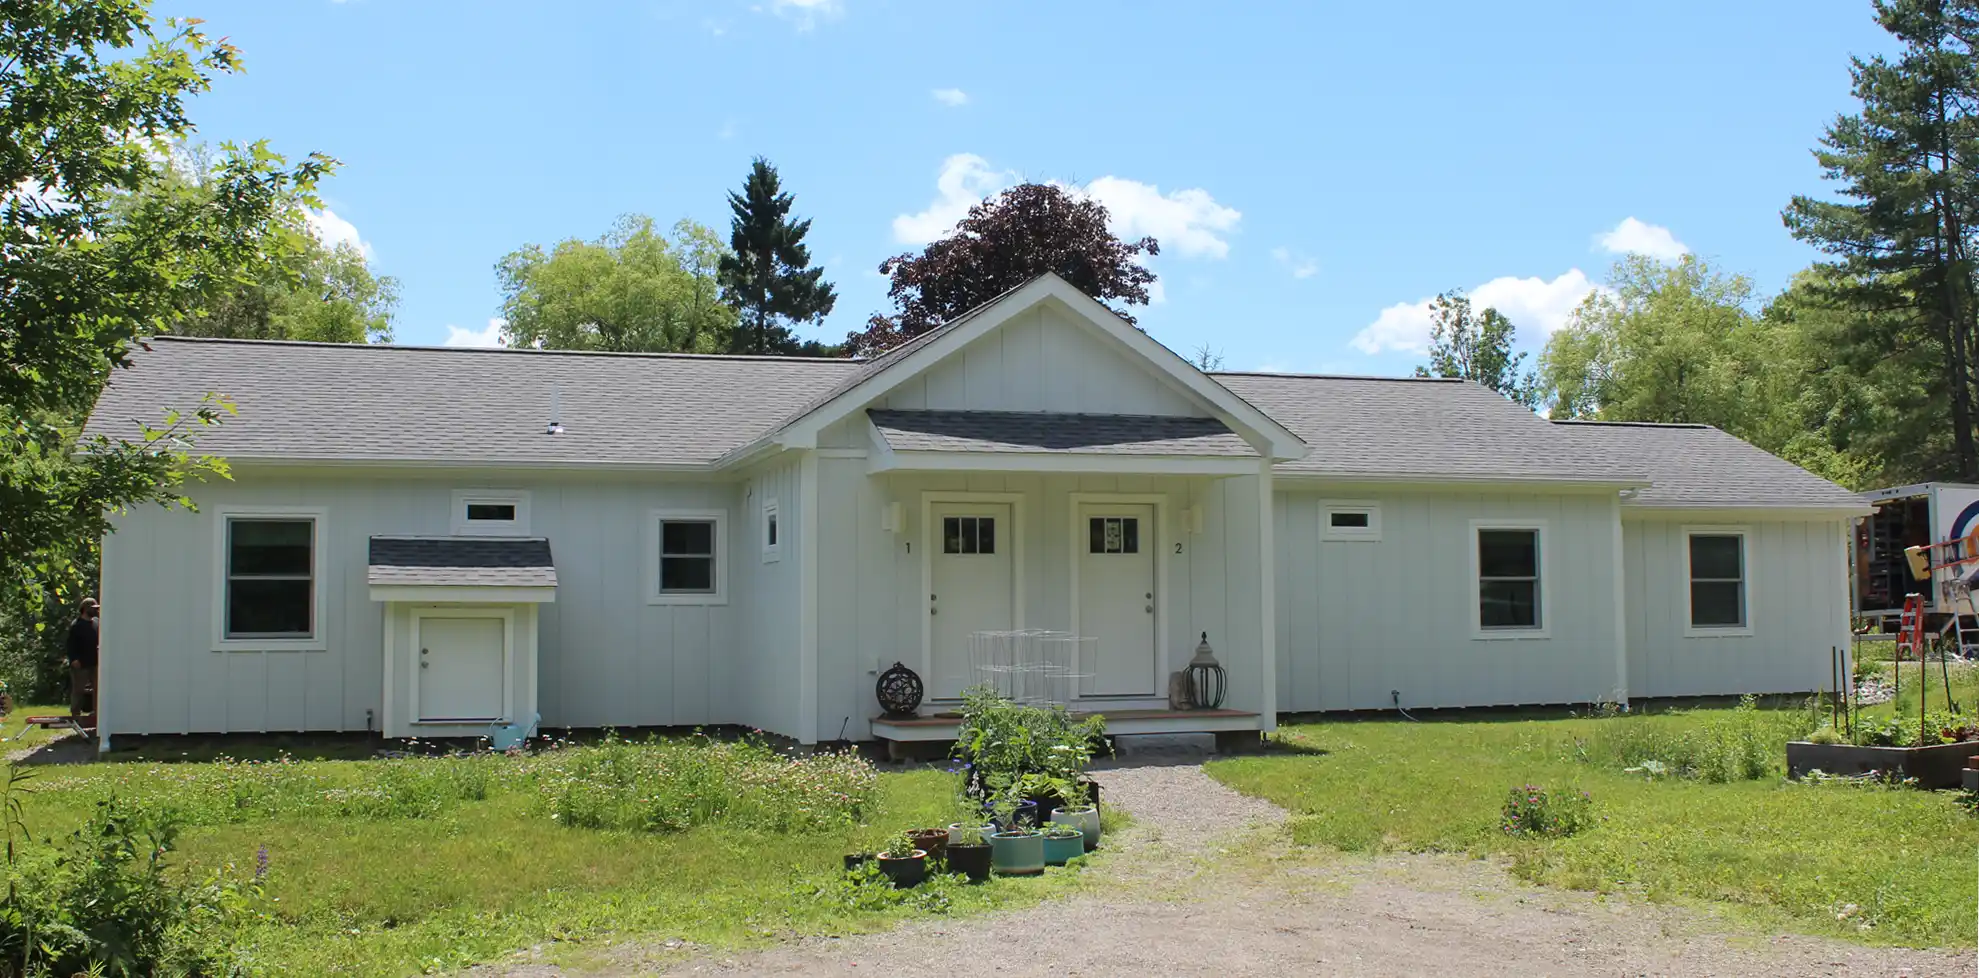
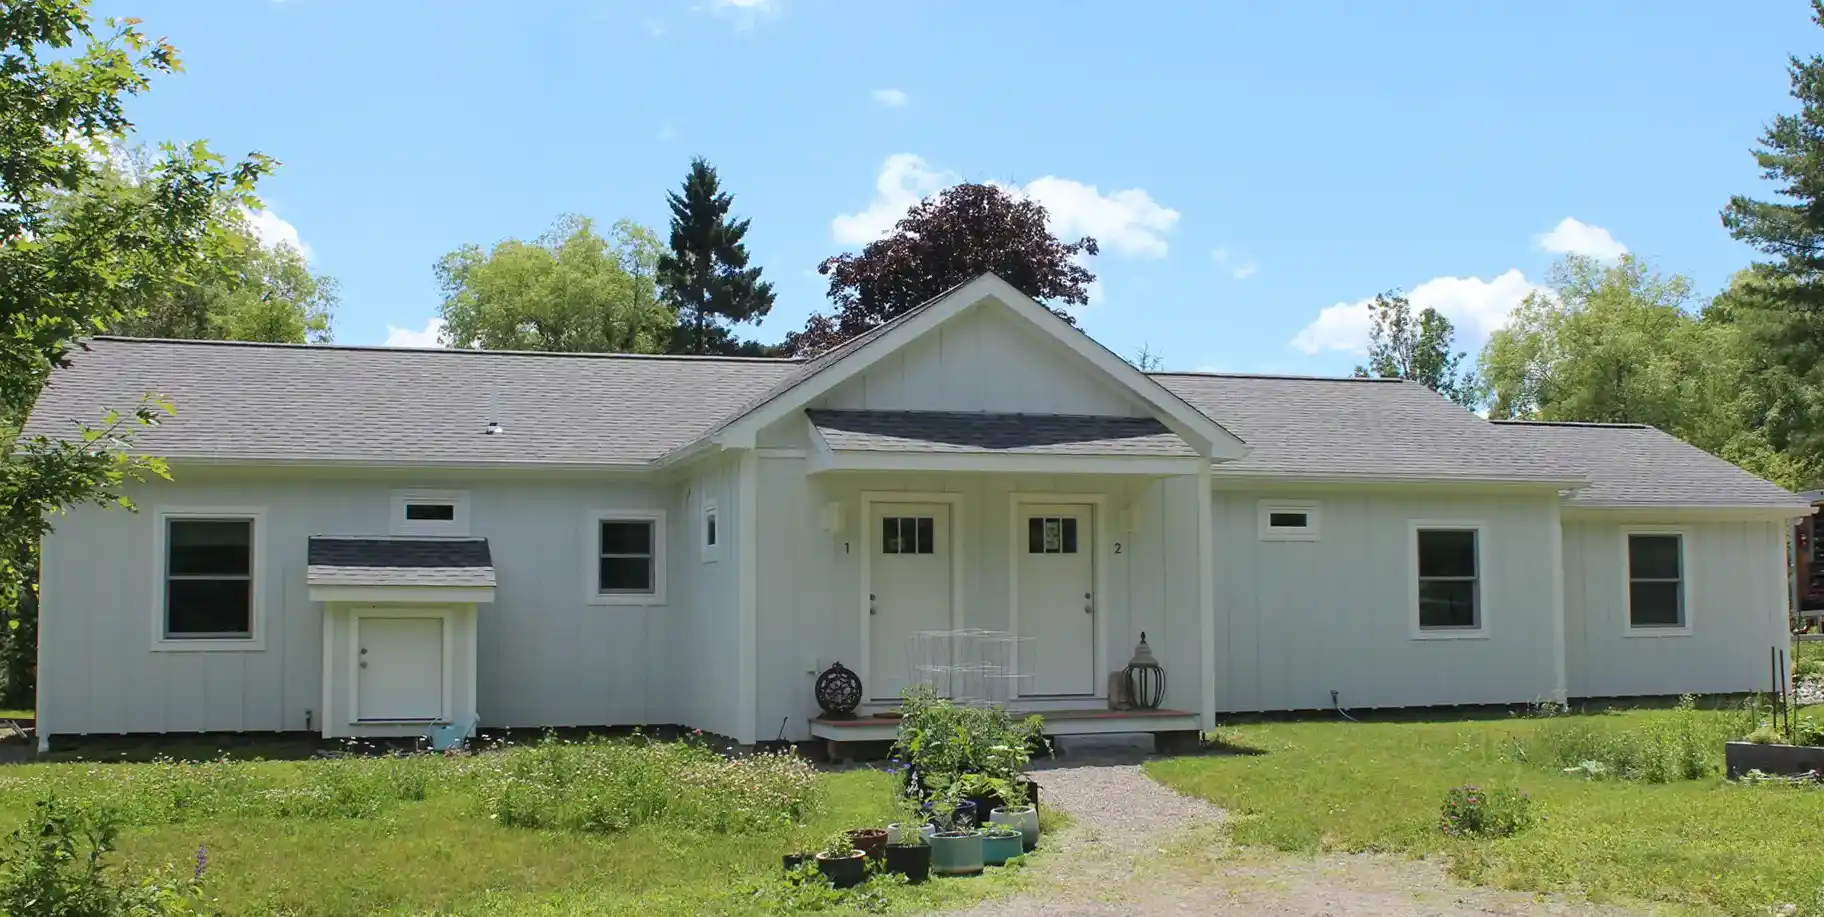
typo on cost page

diff --git a/frontend/src/components/pages/ProjectCostPage.jsx b/frontend/src/components/pages/ProjectCostPage.jsx
@@ -101,7 +101,7 @@ export default function ProjectCostPage() {
           Purchase 
         </p> */}
         <p className="text-base py-1 text-gray-700">
-          This page includes the purchase of the building and construction costs for the energy retrofit and electricification.
+          This page lists the building's purchase and construction costs for the energy retrofit and electrification.
         </p>
       </PageIntro>
 
